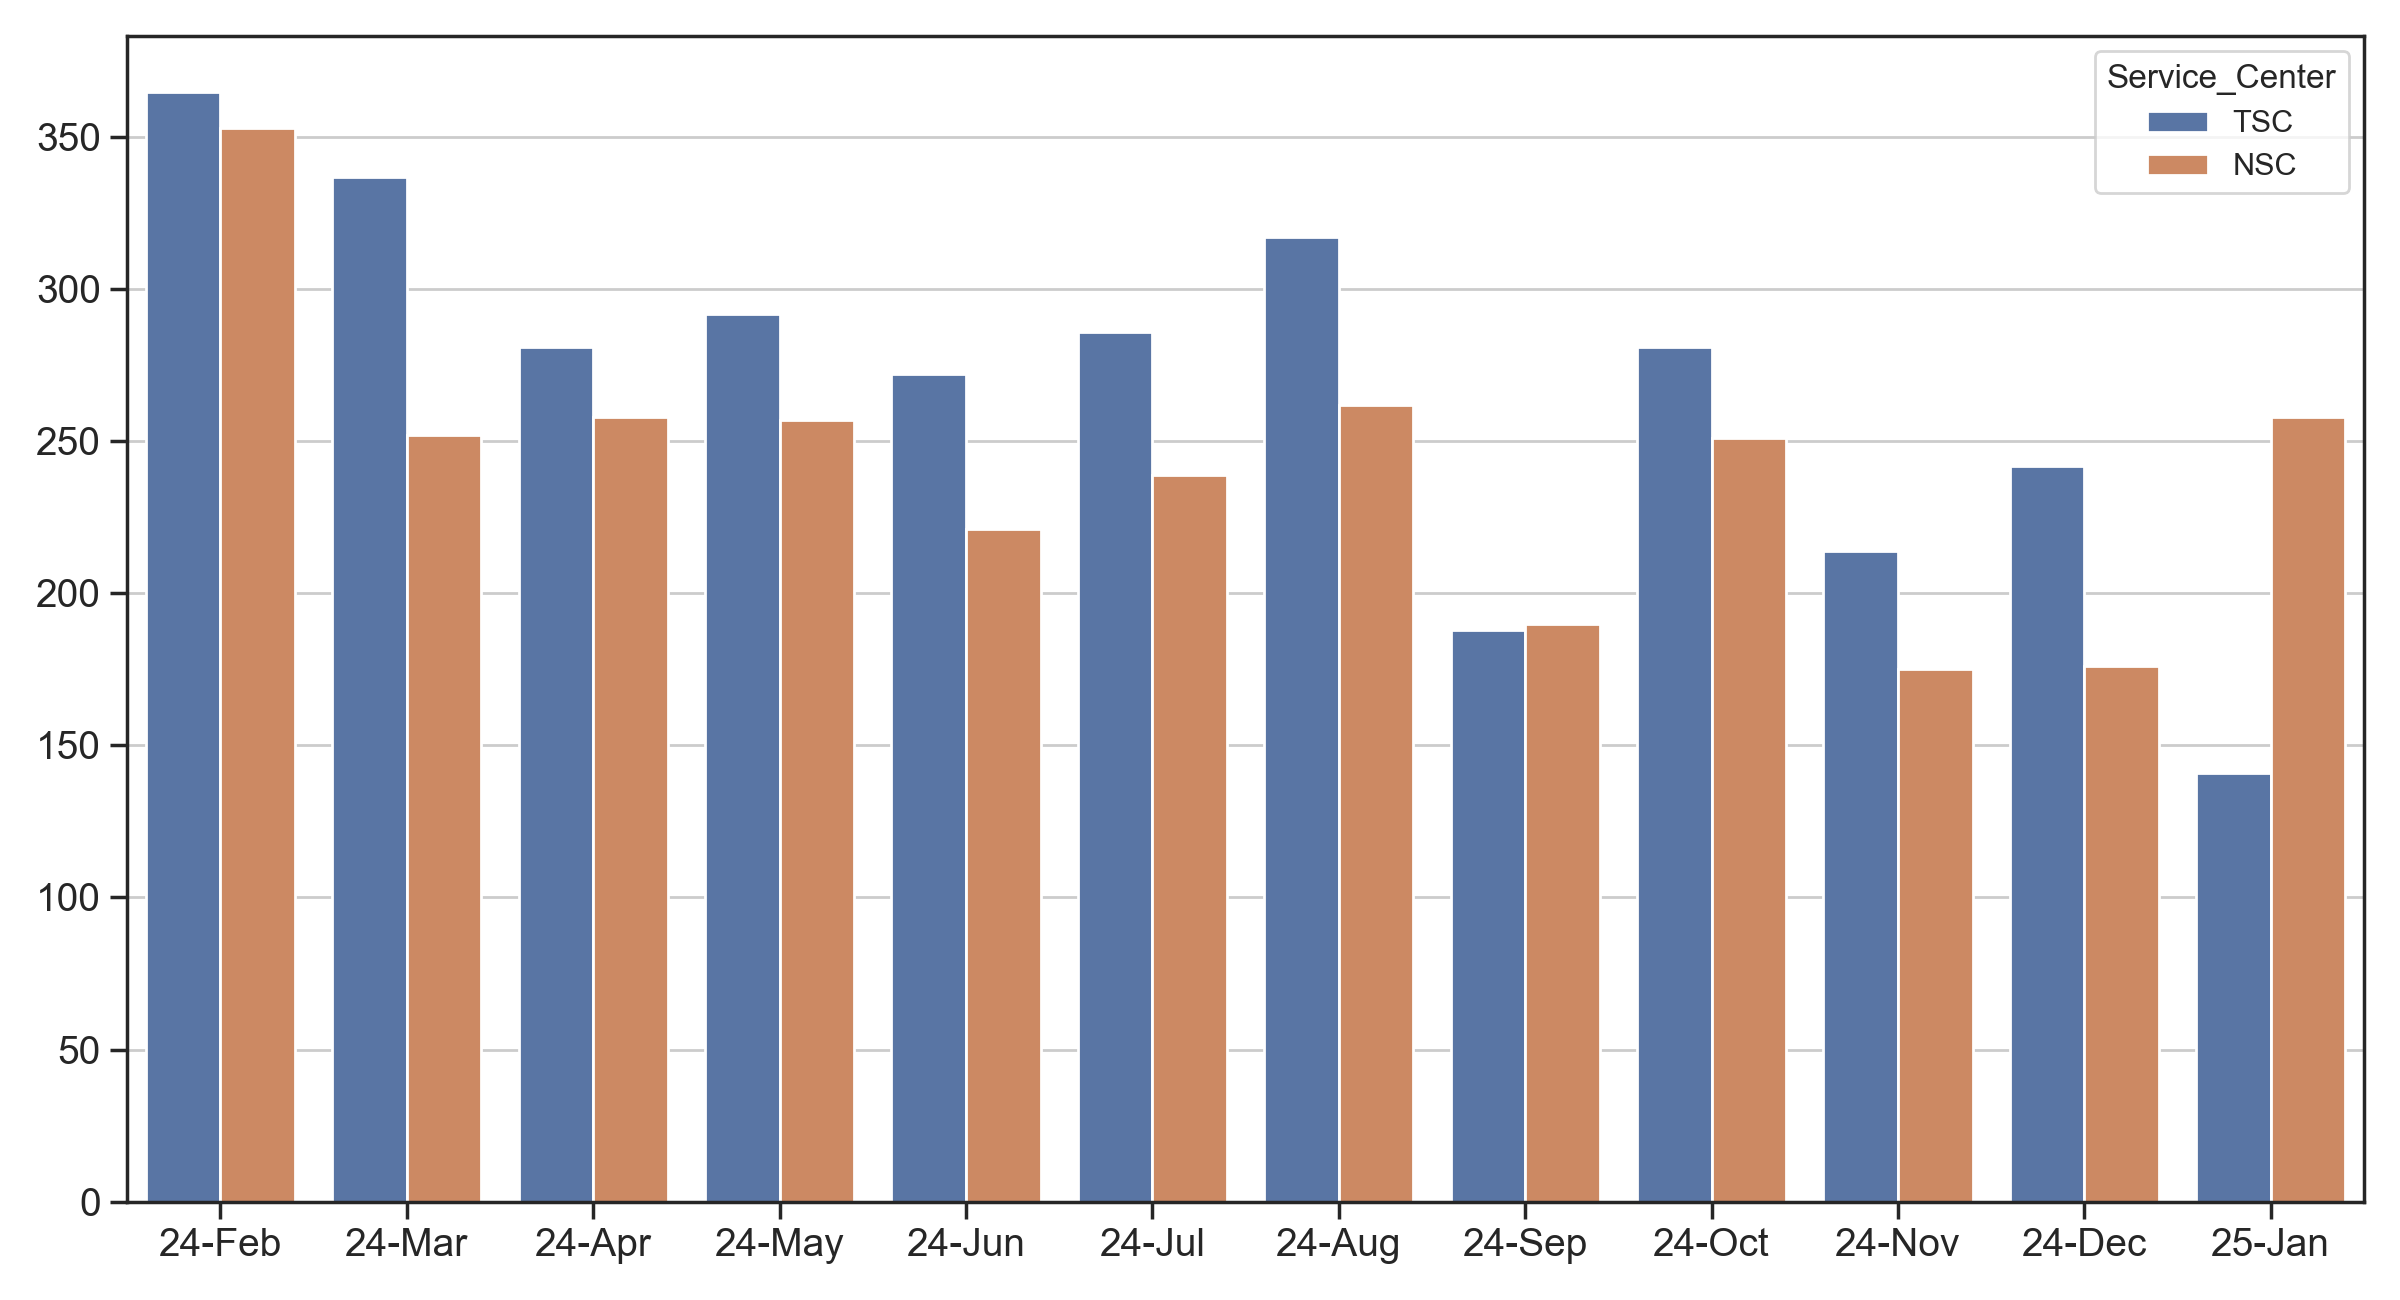
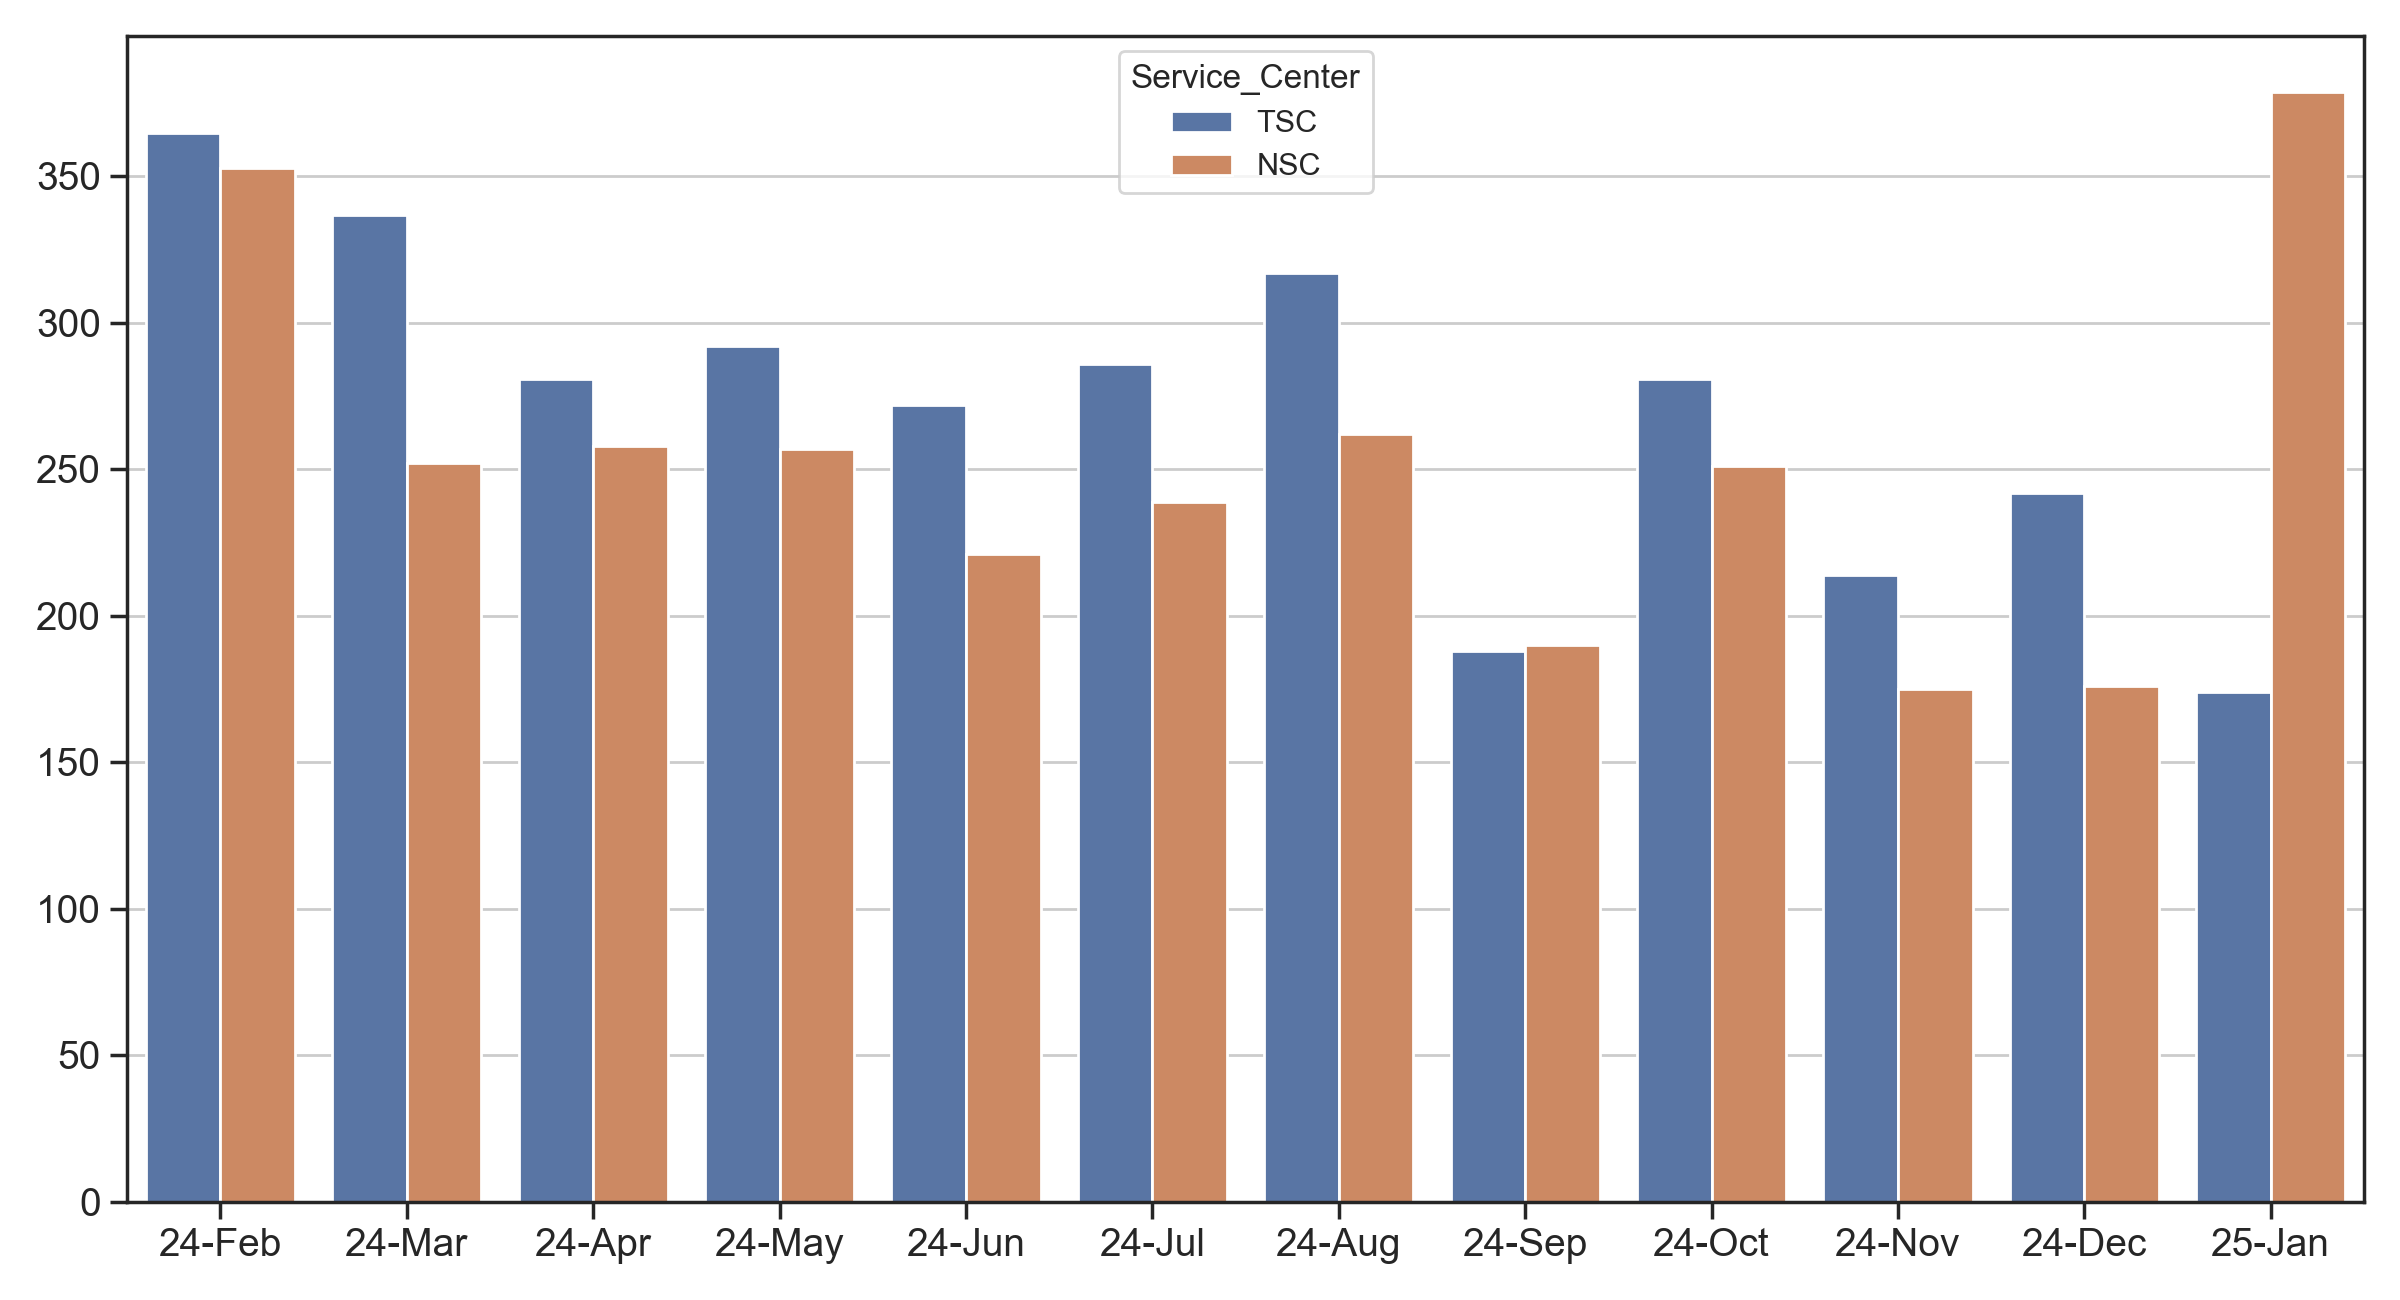
Feb-26 update

diff --git a/README.md b/README.md
@@ -1,4 +1,4 @@
-## National Interest Waiver Wait Time, updated Feb-09-2025 
+## National Interest Waiver Wait Time, updated Feb-16-2025 
 * sec203(b)(2), Indiv w/Adv Deg or Exceptional Ability in National Interest are counted as NIW cases from now on. 
  
 USCIS Employment-based-2 NIW I-140 wait time before approval (data source: [Victoria Chen](https://www.wegreened.com/eb1_niw_approvals)). 
